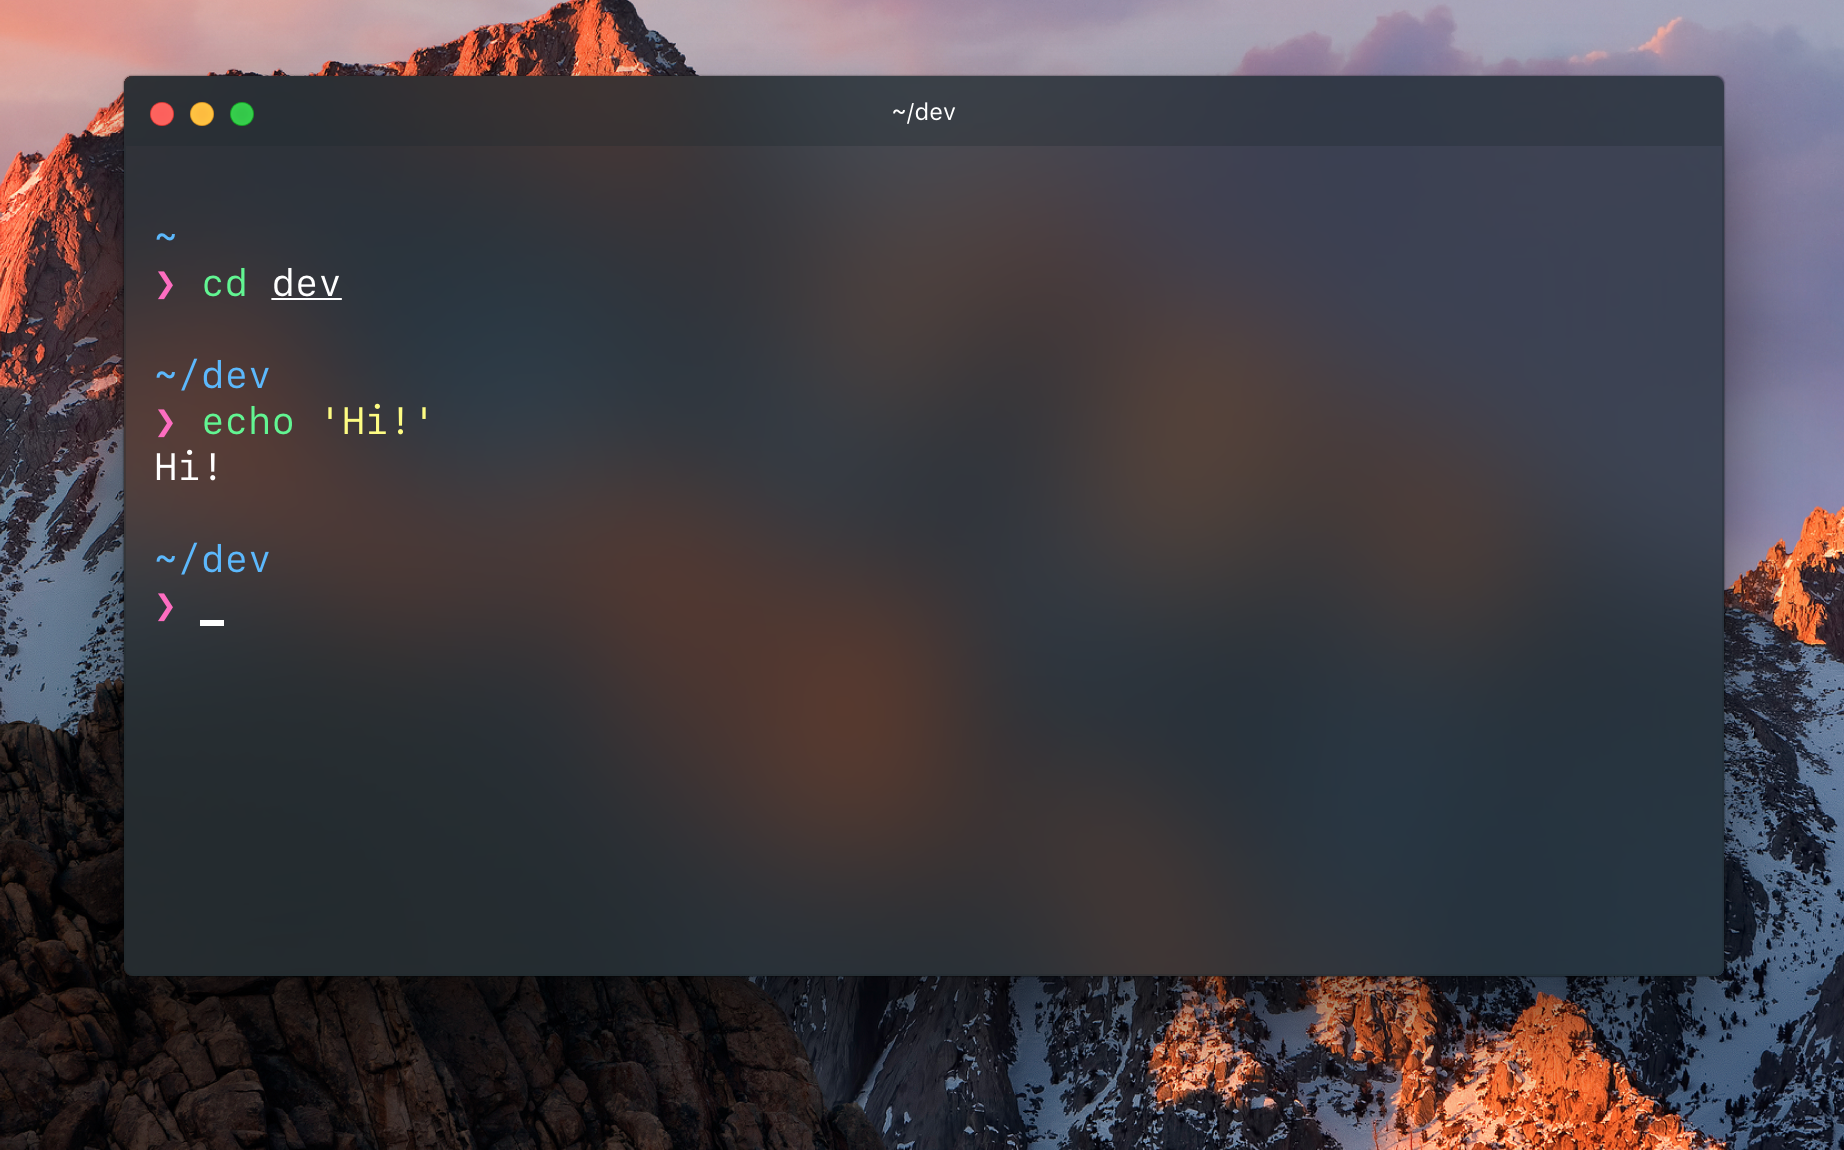
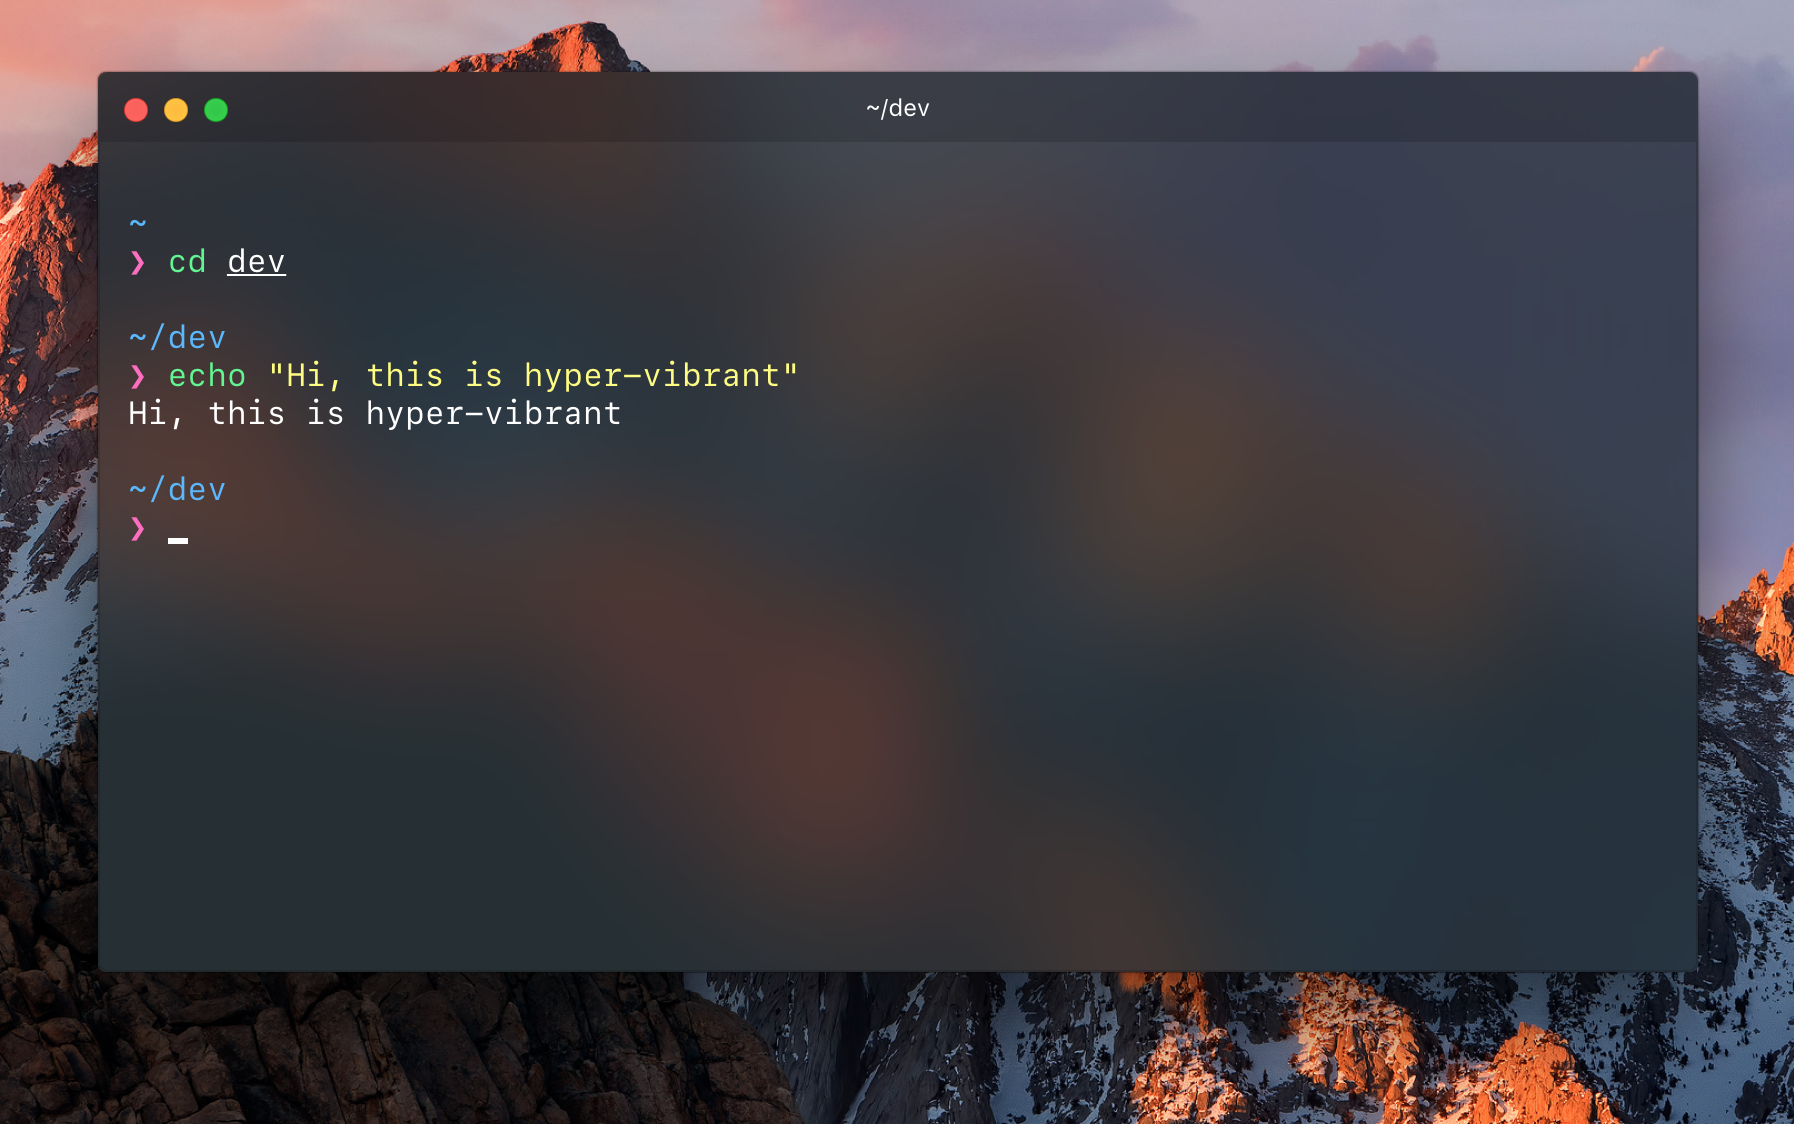
0.1.1 & 0.1.2

diff --git a/index.js b/index.js
@@ -1,8 +1,8 @@
 module.exports.onWindow = browserWindow => browserWindow.setVibrancy('dark');
 
 const foregroundColor = '#fff';
-const backgroundColor = 'rgba(31, 43, 49, .40)';
-const overlap = 'rgba(28, 40, 46, .20)';
+const backgroundColor = 'rgba(28, 40, 46, .60)';
+const overlap = 'rgba(0, 0, 0, .15)';
 const red = '#ff5c57';
 const green = '#5af78e';
 const yellow = '#fefe7a';
